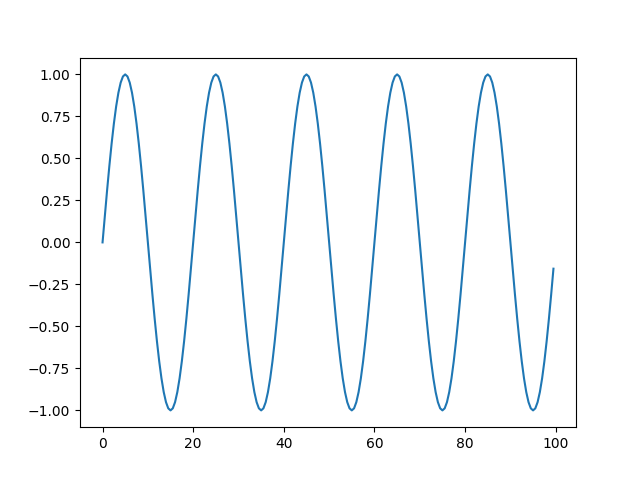
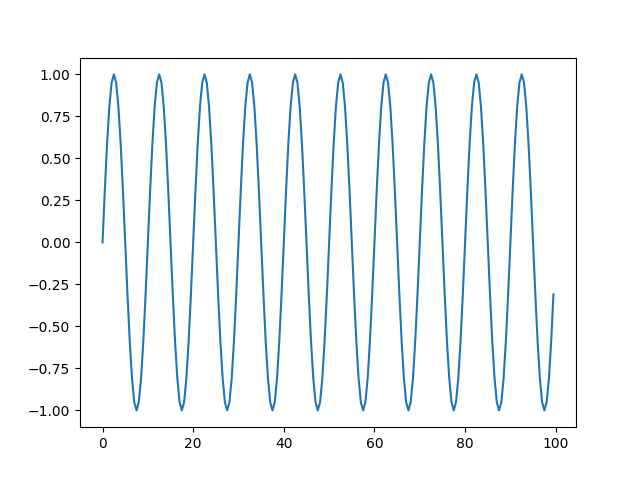
fea

Changed region(s): [[0.1562, 0.1562, 0.875, 0.875]]

diff --git a/python/python/src/sample1.py b/python/python/src/sample1.py
@@ -1,0 +1,13 @@
+import matplotlib.pyplot as plt
+import numpy as np
+
+# x軸:時刻
+x = np.arange(0, 100, 0.5)
+
+# y軸:sin波
+Hz = 5.
+y = np.sin(4.0 * np.pi * (x * Hz) / 100)
+
+# グラフを描画
+plt.plot(x, y)
+plt.savefig('test.png')
